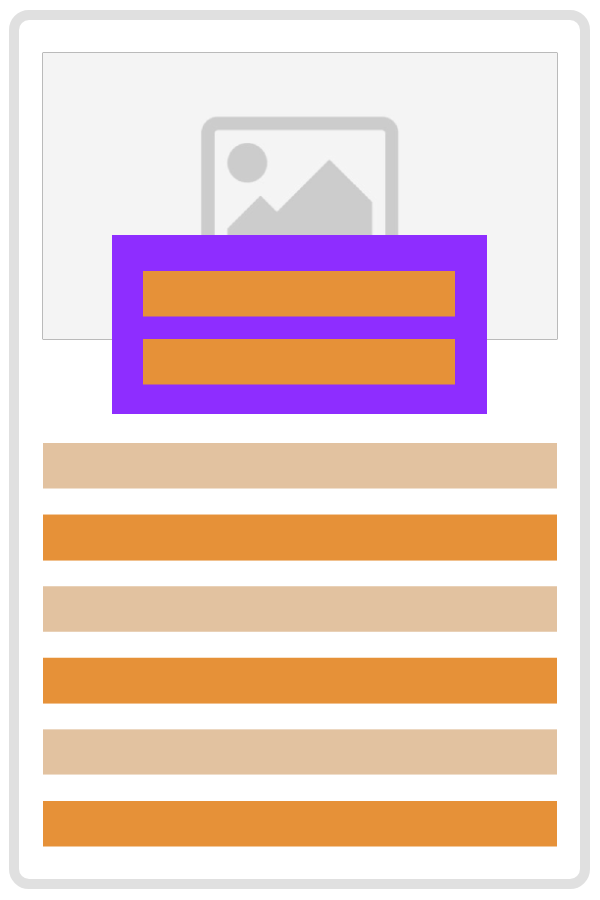
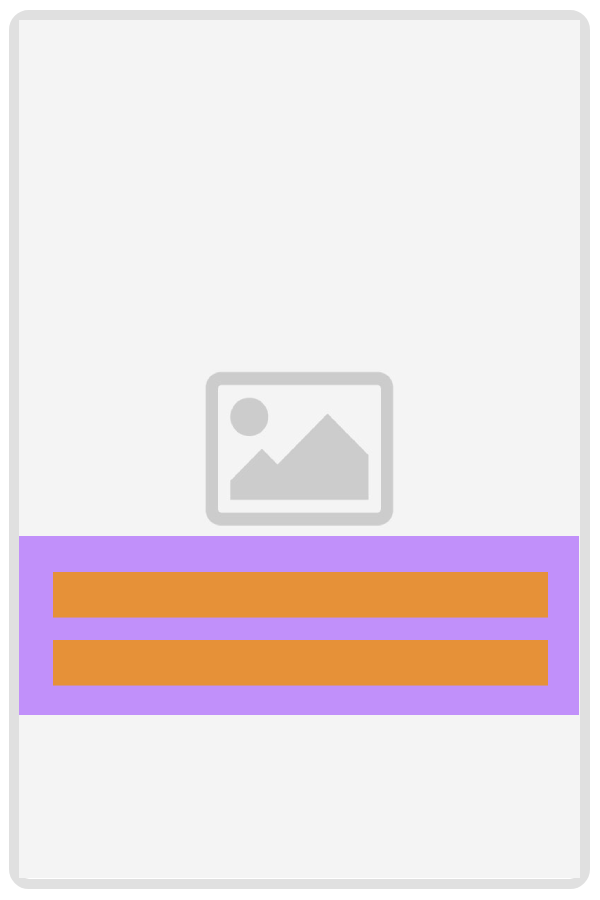
rearrange template

diff --git a/maverick-tools/index.html b/maverick-tools/index.html
@@ -110,8 +110,12 @@
                         <li data-source="text-8" class="template-item" style="background-image: url('img/text-8.png');">
                         </li>
                     </ul>
-                    <ul id="menu-template-video">    </ul>
-                    <ul id="menu-template-special">    </ul>
+                    <ul id="menu-template-video">
+                        <li data-source="" class="template-item">not avail</li>
+                    </ul>
+                    <ul id="menu-template-special">
+                        <li data-source="" class="template-item">not avail</li>
+                    </ul>
                 </div>
                 <div class="menu-footer">
                     <div class="menu-footer-contacts">
@@ -138,7 +142,8 @@
                             <p>Click to add new Feed from the templates collection</p>
                             <button id="add-feed" type="button"
                                 class="a-template-toggle btn btn-info rounded-circle p-4 fs-1 fw-bold"><i
-                                    class="bi-plus"></i></button>
+                                    class="bi-plus"></i>
+                            </button>
                         </div>
 
                         <div
@@ -148,7 +153,31 @@
                                 <br />
                                 or save your current feed
                             </p>
-                            <input class="form-control mb-3" type="text" placeholder="type the feed title (optional)">
+                            <input class="form-control mb-1" type="text" placeholder="type the feed title (optional)">
+                            <div class="accordion mb-2" id="accordionExample">
+                                
+                                <div class="accordion-item">
+                                    <h2 class="accordion-header" id="headingAdvance">
+                                        <button class="accordion-button collapsed p-2 fw-bold" type="button"
+                                            data-bs-toggle="collapse" data-bs-target="#collapseAdvance"
+                                            aria-expanded="false" aria-controls="collapseAdvance">
+                                            Advance
+                                        </button>
+                                    </h2>
+                                    <div id="collapseAdvance" class="accordion-collapse collapse"
+                                        aria-labelledby="headingAdvance" data-bs-parent="#accordionExample">
+                                        <div class="accordion-body">
+                                            <input class="form-control mb-1" type="text" placeholder="Category">
+                                            <input class="form-control mb-1" type="text" placeholder="Tags">
+                                            <div class="input-group mb-3">
+                                                <input class="form-control" type="text" placeholder="Date publich">
+                                                <span class="input-group-text"><i class="bi bi-calendar-date"></i></span>
+                                            </div>
+                                        </div>
+                                    </div>
+                                </div>
+                                
+                            </div>
                             <button id="save-feed" type="button" class="btn btn-primary btn-lg">SAVE</button>
                         </div>
                     </div>
@@ -162,7 +191,7 @@
                 <div class="modal-content">
                     <div class="modal-body">
                         <input class="form-control" type="text" id="input-url" placeholder="Type url">
-                        <input type="hidden" id="active-section-num" value="" /> 
+                        <input type="hidden" id="active-section-num" value="" />
                     </div>
                     <div class="modal-footer border-0 pt-0">
                         <button type="button" class="btn btn-primary" id="add-url">Add</button>
@@ -173,7 +202,9 @@
     </main>
 
     <script src="https://ajax.googleapis.com/ajax/libs/jquery/1.11.1/jquery.min.js"></script>
-    <script src="https://cdn.jsdelivr.net/npm/bootstrap@5.2.2/dist/js/bootstrap.min.js" integrity="sha384-IDwe1+LCz02ROU9k972gdyvl+AESN10+x7tBKgc9I5HFtuNz0wWnPclzo6p9vxnk" crossorigin="anonymous"></script>
+    <script src="https://cdn.jsdelivr.net/npm/bootstrap@5.2.2/dist/js/bootstrap.min.js"
+        integrity="sha384-IDwe1+LCz02ROU9k972gdyvl+AESN10+x7tBKgc9I5HFtuNz0wWnPclzo6p9vxnk"
+        crossorigin="anonymous"></script>
     <script src="ckeditor-build/ckeditor.js"></script>
     <script>
         $(document).ready(function () {
@@ -195,7 +226,7 @@
                 }
             });
 
-            
+
             //insert new feed item
             $('.template-item').on('click', function () {
                 $.ajax({
@@ -216,15 +247,15 @@
 
                         //update CTA button id
                         $('#feed-form #cta-switcher').attr("data-num", sectionNum);
-                        $('#feed-form #cta-switcher').attr("id", "section-" + sectionNum+'-cta-switcher');
-                        $('#section-' + sectionNum + ' .cta-url').attr("name", "section-" + sectionNum+'-cta-url');
-                        $('.cta-switcher').change(function() {
+                        $('#feed-form #cta-switcher').attr("id", "section-" + sectionNum + '-cta-switcher');
+                        $('#section-' + sectionNum + ' .cta-url').attr("name", "section-" + sectionNum + '-cta-url');
+                        $('.cta-switcher').change(function () {
                             $('#input-url').val('');
-                            if(this.checked) {
+                            if (this.checked) {
                                 $('#active-section-num').val(this.getAttribute('data-num'));
                                 $('#CTAModal').modal('show');
-                            }else{
-                                $('#section-' + this.getAttribute('data-num') +' .box-cta label').html('CTA')
+                            } else {
+                                $('#section-' + this.getAttribute('data-num') + ' .box-cta label').html('CTA')
                             }
                         });
 
@@ -233,19 +264,19 @@
                             //check for the active section
                             var activeSectionNum = $('#active-section-num').val();
                             //unchecked CTA button on active section, unless it filled with url
-                            if($('#section-' + activeSectionNum +' .box-cta label').html() == 'CTA'){
-                                $('#section-' + activeSectionNum +'-cta-switcher').prop('checked',false);
+                            if ($('#section-' + activeSectionNum + ' .box-cta label').html() == 'CTA') {
+                                $('#section-' + activeSectionNum + '-cta-switcher').prop('checked', false);
                             }
                         });
 
                         //update CTA url on section
-                        $('#add-url').on('click', () =>{
+                        $('#add-url').on('click', () => {
                             //check for the active section
                             var activeSectionNum = $('#active-section-num').val();
                             //update label CTA with url
-                            if($('#input-url').val()){
-                                $('#section-' + activeSectionNum +' .box-cta label').html($('#input-url').val())
-                                $('#section-' + activeSectionNum +' .cta-url').val($('#input-url').val())
+                            if ($('#input-url').val()) {
+                                $('#section-' + activeSectionNum + ' .box-cta label').html($('#input-url').val())
+                                $('#section-' + activeSectionNum + ' .cta-url').val($('#input-url').val())
                                 $('#CTAModal').modal('hide');
                             }
                         });
@@ -291,7 +322,7 @@
 
                         //update add feed slide content
                         $('.new-feed-save-cont').removeClass('d-none');
-                        $('.new-feed-btn-cont').css('margin-top', '25vh');
+                        $('.new-feed-btn-cont').css('margin-top', '20vh');
 
                     }
                 });

diff --git a/maverick-tools/templates/text-foto-1.html b/maverick-tools/templates/text-foto-1.html
@@ -1,32 +1,27 @@
 <section class="section active">
     <div class="container px-0">
         <div class="row justify-content-center">
-            <div class="col-lg-8">
-                <div class="slide-photo slide-photo-about animate-element delay1 fadeInUp img-fw">
+            <div class="col-lg-4">
+                <div class="img-full slide-photo" ">
+                    
                     <input type="file" name="img-upload"/>
                     <label for="img-upload" class="label-img-upload fs-1"><i class="bi bi-upload"></i></label>
-                </div>
-            </div>
-            <div class="col-lg-4">
-                <div
-                    class="animate-element delay4 fadeInUp px-5 py-3 box-title box-title-purple raise-5">
-                    <div class="title-mini mb-3">Category<span class="mx-2">|</span>dd month year</div>
-                    <h2 class="slide-title font-custom">
-                        <div class="ckeditor editor-templ-1" data-textarea="text-1" placeholder="Type the title here!"></div>
-                        <textarea name="text-1[]" id="text-1" hidden/></textarea>
-                    </h2>
-                </div>
-                <div class="box-desc animate-element delay7 fadeInUp">
-                    <div class="px-5 my-4 fs-5">
-                        <div class="ckeditor editor-templ-2" data-textarea="text-2" placeholder="Type the content here!"></div>
-                        <textarea name="text-2[]" id="text-2" hidden/></textarea>
-                    </div>
-                </div>
+                
+                    <div class="animate-element delay4 fadeInUp px-5 py-3 box-title bg-dark bg-opacity-50">
+                        <div class="title-mini mb-3">Category <span class="mx-2">|</span> day month year</div>
+                        <h2 class="slide-title font-custom">
+                            <div class="ckeditor editor-templ-1" data-textarea="text-1" placeholder="Type the title here!"></div>
+                            <textarea name="text-1[]" id="text-1" hidden/></textarea>
+                        </h2>
 
-                <div class="box-cta animate-element delay10 fadeInUp form-check form-switch form-check-reverse me-5 my-3">
-                    <input type="hidden" class="cta-url" name="cta-url" value="" />
-                    <input class="form-check-input cta-switcher" type="checkbox" id="cta-switcher" data-num="">
-                    <label class="form-check-label" for="ctaSwitcher">CTA</label>
+                        <div class="box-cta animate-element delay7 fadeInUp form-check form-switch form-check-reverse my-3">
+                            <input type="hidden" class="cta-url" name="cta-url" value="" />
+                            <input class="form-check-input cta-switcher" type="checkbox" id="cta-switcher" data-num="">
+                            <label class="form-check-label" for="ctaSwitcher">CTA</label>
+                        </div>
+
+                    </div>
+
                 </div>
             </div>
         </div>

diff --git a/maverick-tools/templates/text-foto-5.html b/maverick-tools/templates/text-foto-5.html
@@ -1,27 +1,30 @@
 <section class="section active">
     <div class="container px-0">
         <div class="row justify-content-center">
-            <div class="col-lg-4">
-                <div class="img-full slide-photo" ">
-                    
+            <div class="col-lg-8">
+                <div class="box-desc animate-element delay1 fadeInUp">
+                    <div class="px-5 my-4 fs-5">
+                        <div class="ckeditor" data-textarea="text-1" placeholder="Type the content here!"></div>
+                        <textarea name="text-1[]" id="text-1" hidden/></textarea>
+                    </div>
+                </div>
+                <div class="slide-photo slide-photo-about animate-element delay4 fadeInUp img-fw">
                     <input type="file" name="img-upload"/>
                     <label for="img-upload" class="label-img-upload fs-1"><i class="bi bi-upload"></i></label>
-                
-                    <div class="animate-element delay4 fadeInUp px-5 py-3 box-title bg-dark bg-opacity-50">
-                        <div class="title-mini mb-3">Category <span class="mx-2">|</span> day month year</div>
-                        <h2 class="slide-title font-custom">
-                            <div class="ckeditor editor-templ-1" data-textarea="text-1" placeholder="Type the title here!"></div>
-                            <textarea name="text-1[]" id="text-1" hidden/></textarea>
-                        </h2>
-
-                        <div class="box-cta animate-element delay7 fadeInUp form-check form-switch form-check-reverse my-3">
-                            <input type="hidden" class="cta-url" name="cta-url" value="" />
-                            <input class="form-check-input cta-switcher" type="checkbox" id="cta-switcher" data-num="">
-                            <label class="form-check-label" for="ctaSwitcher">CTA</label>
-                        </div>
-
+                </div>
+            </div>
+            <div class="col-lg-4">
+                <div class="box-desc animate-element delay7 fadeInUp">
+                    <div class="px-5 my-4 fs-5">
+                        <div class="ckeditor" data-textarea="text-2" placeholder="Type the content here!"></div>
+                        <textarea name="text-2[]" id="text-2" hidden/></textarea>
                     </div>
+                </div>
 
+                <div class="box-cta animate-element delay10 fadeInUp form-check form-switch form-check-reverse me-5 my-3">
+                    <input type="hidden" class="cta-url" name="cta-url" value="" />
+                    <input class="form-check-input cta-switcher" type="checkbox" id="cta-switcher" data-num="">
+                    <label class="form-check-label" for="ctaSwitcher">CTA</label>
                 </div>
             </div>
         </div>

diff --git a/maverick-tools/templates/text-foto-3.html b/maverick-tools/templates/text-foto-3.html
@@ -2,26 +2,20 @@
     <div class="container px-0">
         <div class="row justify-content-center">
             <div class="col-lg-8">
-                <div class="box-desc animate-element delay1 fadeInUp">
-                    <div class="px-5 my-4 fs-5">
-                        <div class="ckeditor" data-textarea="text-1" placeholder="Type the content here!"></div>
-                        <textarea name="text-1[]" id="text-1" hidden/></textarea>
-                    </div>
-                </div>
-                <div class="slide-photo slide-photo-about animate-element delay4 fadeInUp img-fw">
+                <div class="slide-photo slide-photo-about animate-element delay1 fadeInUp img-fw">
                     <input type="file" name="img-upload"/>
                     <label for="img-upload" class="label-img-upload fs-1"><i class="bi bi-upload"></i></label>
                 </div>
             </div>
             <div class="col-lg-4">
-                <div class="box-desc animate-element delay7 fadeInUp">
+                <div class="box-desc animate-element delay4 fadeInUp">
                     <div class="px-5 my-4 fs-5">
-                        <div class="ckeditor" data-textarea="text-2" placeholder="Type the content here!"></div>
-                        <textarea name="text-2[]" id="text-2" hidden/></textarea>
+                        <div class="ckeditor" data-textarea="text-1" placeholder="Type the content here!"></div>
+                        <textarea name="text-1[]" id="text-1" hidden/></textarea>
                     </div>
                 </div>
 
-                <div class="box-cta animate-element delay10 fadeInUp form-check form-switch form-check-reverse me-5 my-3">
+                <div class="box-cta animate-element delay7 fadeInUp form-check form-switch form-check-reverse me-5 my-3">
                     <input type="hidden" class="cta-url" name="cta-url" value="" />
                     <input class="form-check-input cta-switcher" type="checkbox" id="cta-switcher" data-num="">
                     <label class="form-check-label" for="ctaSwitcher">CTA</label>

diff --git a/maverick-tools/templates/text-foto-2.html b/maverick-tools/templates/text-foto-2.html
@@ -8,14 +8,22 @@
                 </div>
             </div>
             <div class="col-lg-4">
-                <div class="box-desc animate-element delay4 fadeInUp">
-                    <div class="px-5 my-4 fs-5">
-                        <div class="ckeditor" data-textarea="text-1" placeholder="Type the content here!"></div>
+                <div
+                    class="animate-element delay4 fadeInUp px-5 py-3 box-title box-title-purple raise-5">
+                    <div class="title-mini mb-3">Category<span class="mx-2">|</span>dd month year</div>
+                    <h2 class="slide-title font-custom">
+                        <div class="ckeditor editor-templ-1" data-textarea="text-1" placeholder="Type the title here!"></div>
                         <textarea name="text-1[]" id="text-1" hidden/></textarea>
+                    </h2>
+                </div>
+                <div class="box-desc animate-element delay7 fadeInUp">
+                    <div class="px-5 my-4 fs-5">
+                        <div class="ckeditor editor-templ-2" data-textarea="text-2" placeholder="Type the content here!"></div>
+                        <textarea name="text-2[]" id="text-2" hidden/></textarea>
                     </div>
                 </div>
 
-                <div class="box-cta animate-element delay7 fadeInUp form-check form-switch form-check-reverse me-5 my-3">
+                <div class="box-cta animate-element delay10 fadeInUp form-check form-switch form-check-reverse me-5 my-3">
                     <input type="hidden" class="cta-url" name="cta-url" value="" />
                     <input class="form-check-input cta-switcher" type="checkbox" id="cta-switcher" data-num="">
                     <label class="form-check-label" for="ctaSwitcher">CTA</label>

diff --git a/maverick-tools/css/style-mobile.css b/maverick-tools/css/style-mobile.css
@@ -436,7 +436,7 @@ header:not(.body-menu-opened) .hamburger:hover .bottom-bun {
 .feed-item{
     aspect-ratio: 2/3;
     border: 1px solid #cecece;
-    height: 90vh;
+    height: 93vh;
 }
 .feed-item > div{
     transition-duration: .5s;
